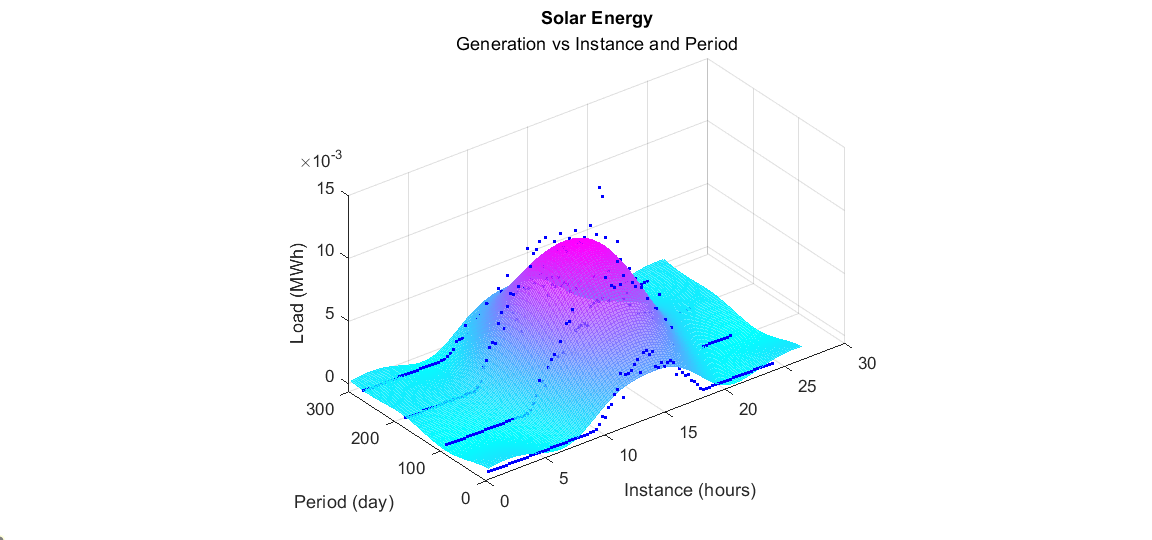
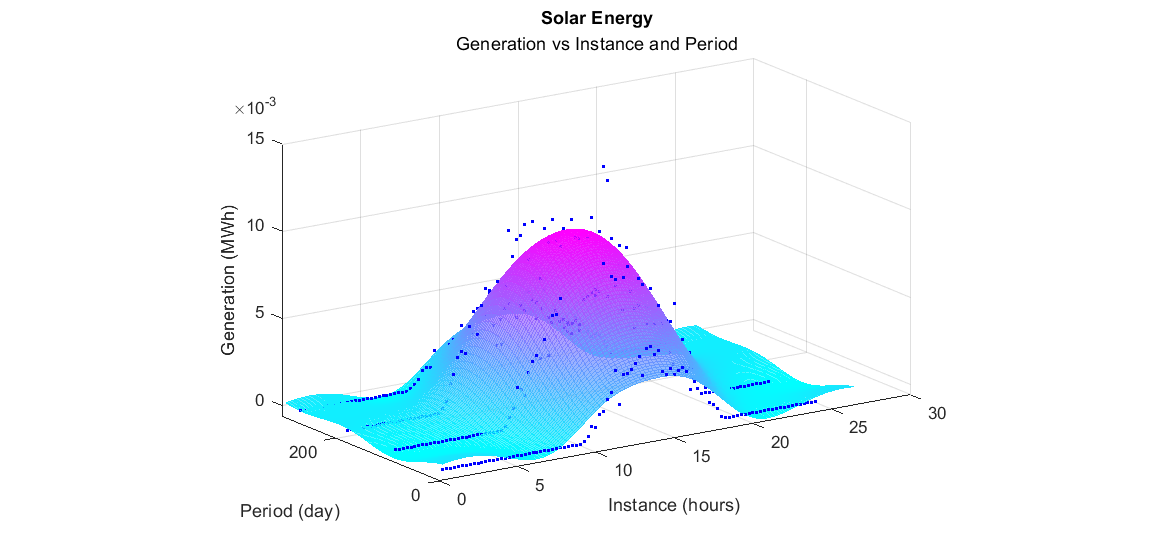
fix generation label on graphs

diff --git a/src/solar/grafici/main.m b/src/solar/grafici/main.m
@@ -16,7 +16,7 @@ title('Solar Energy');
 subtitle('Generation vs Instance');
 
 xlabel("Instance (local time)")
-ylabel("Load (MWh)")
+ylabel("Generation (MWh)")
 
 periods = unique(df.Quarter);
 for n=1:4
@@ -65,7 +65,7 @@ subtitle('Generation vs Instance and Period')
 
 xlabel('Instance (hours)')
 ylabel('Period (day)')
-zlabel('Load (MWh)')
+zlabel('Generation (MWh)')
 
 periodGrid = linspace(0.9*min(days), 1.1*max(days), 100)';
 instanceGrid = linspace(0.9*min(instances), 1.1*max(instances), 100)';
@@ -100,3 +100,6 @@ for q=1:4
 
     fprintf("- Quarter: %s: %2.2fh\n", quarter, inst_2-inst_1)
 end
+
+%% Instance over period - samples
+% Rappresentazione dell'andamento di Generation 
